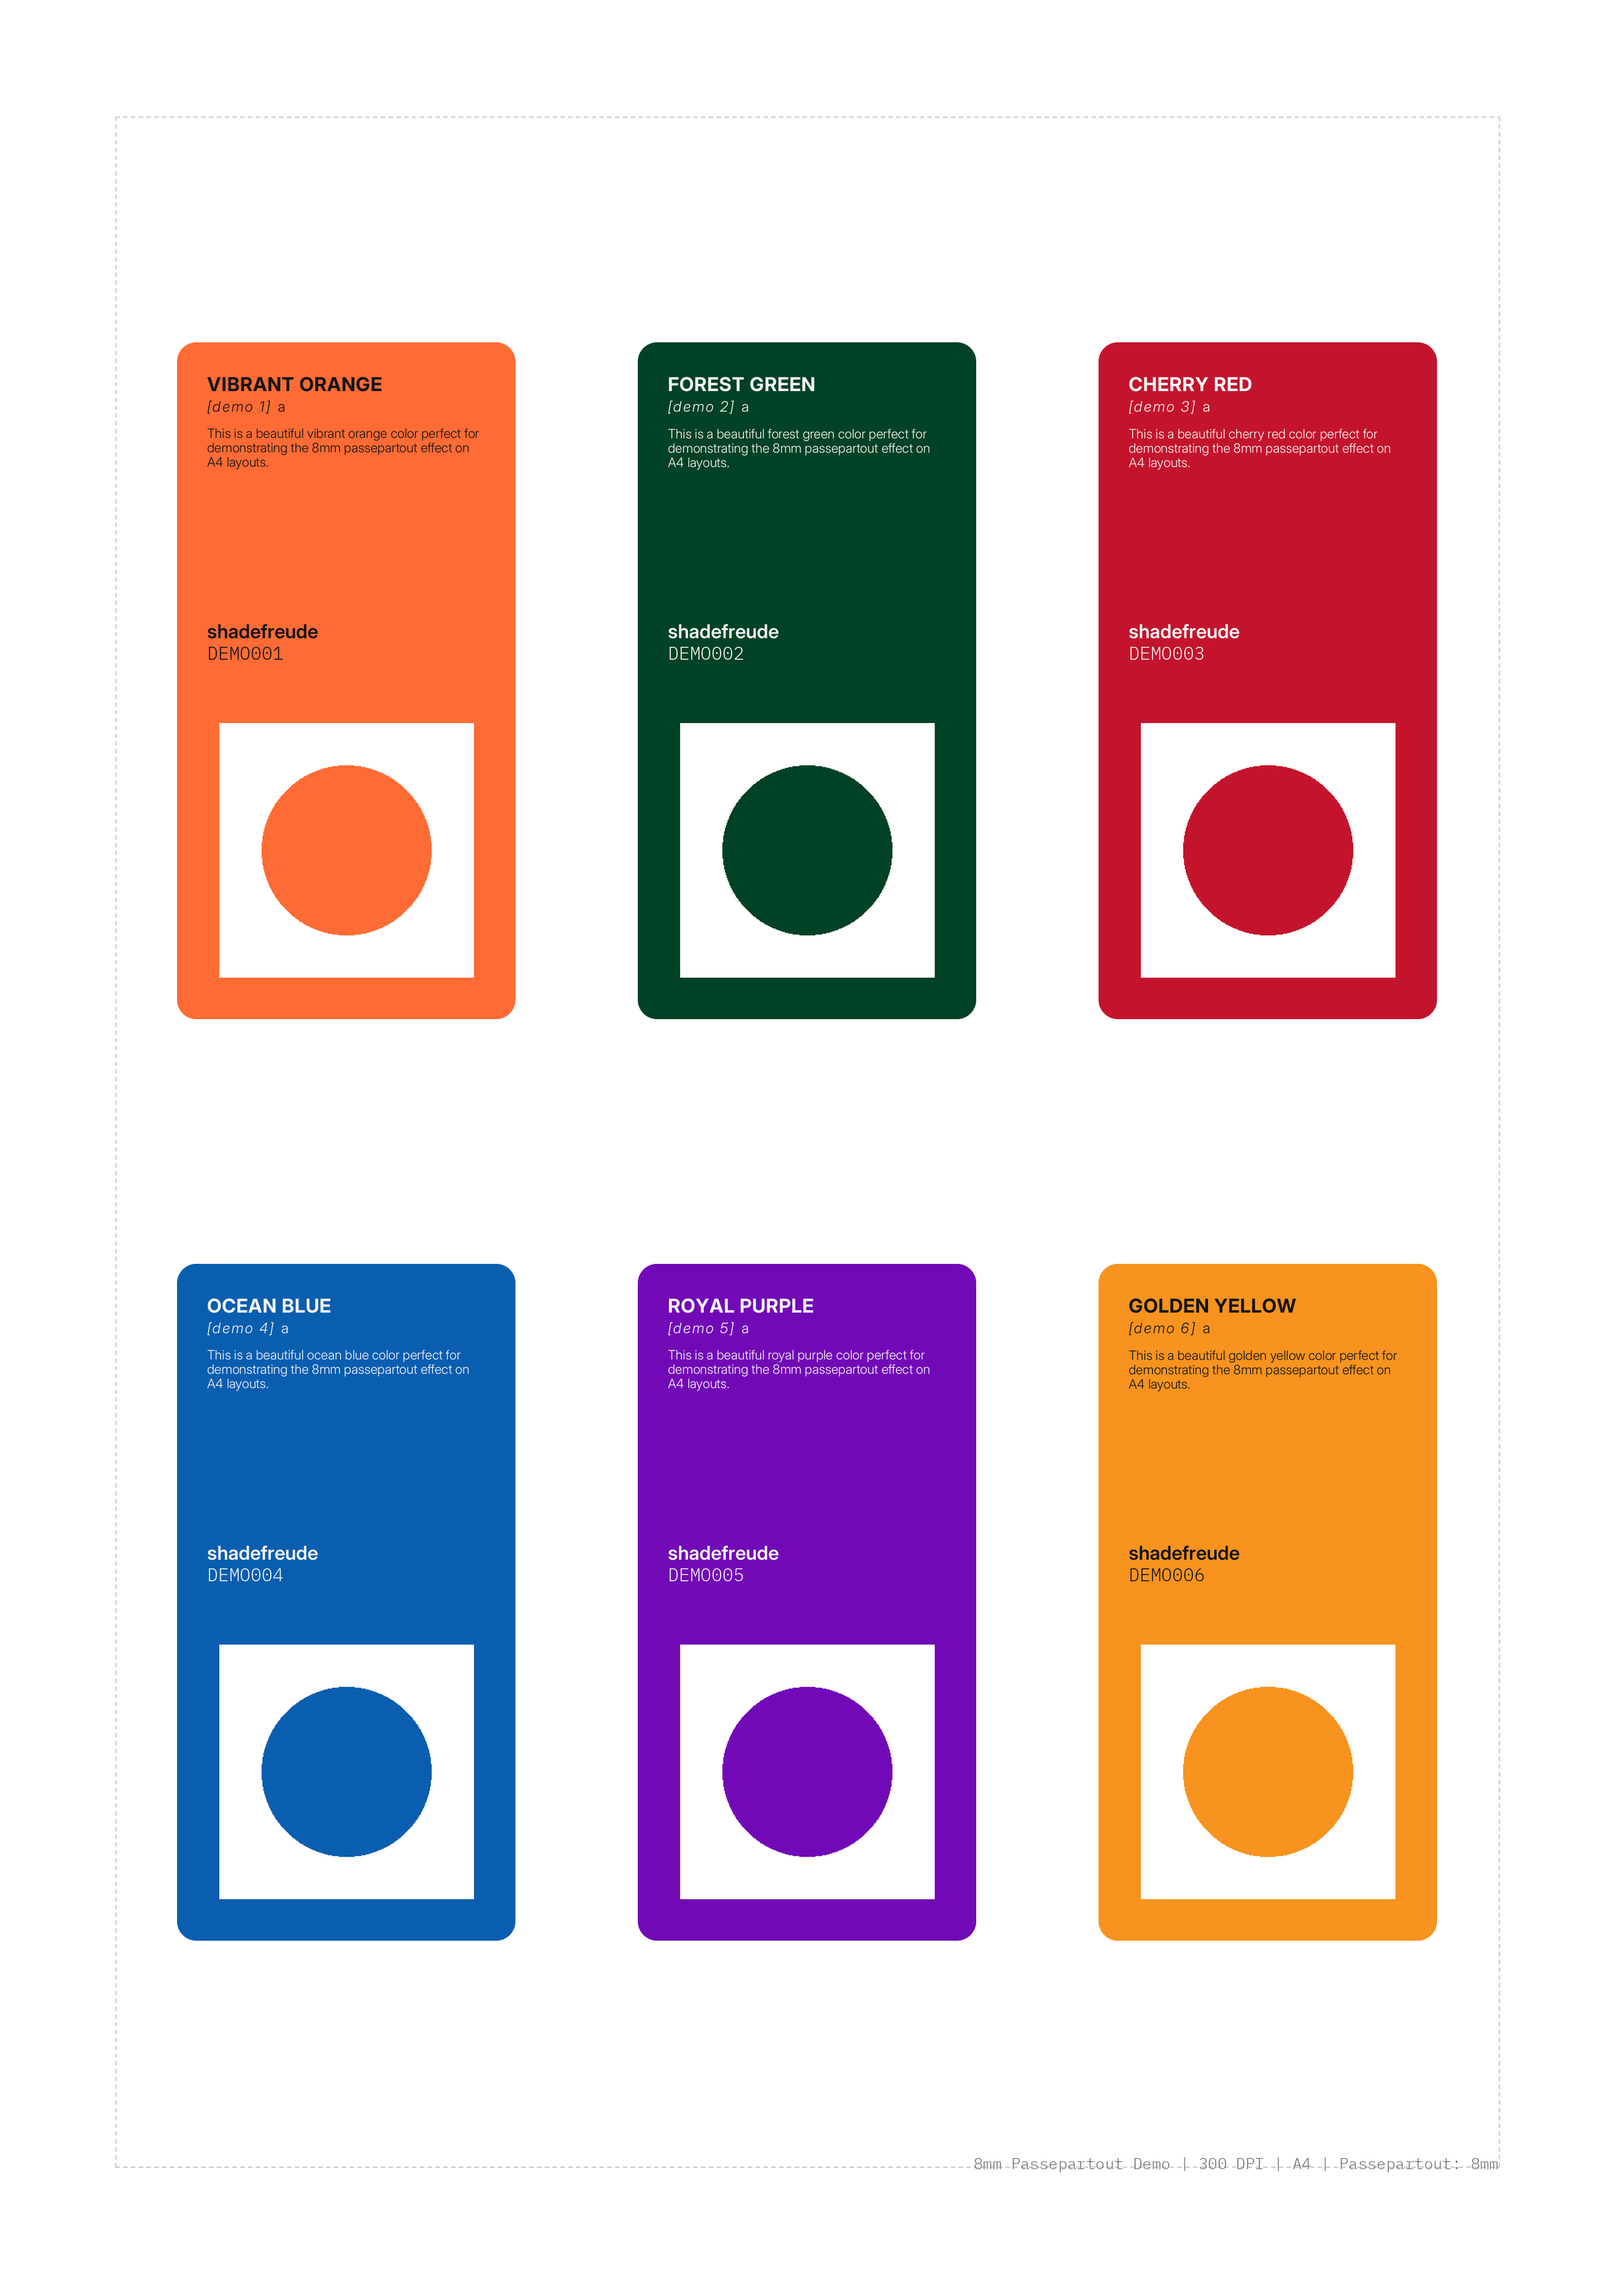
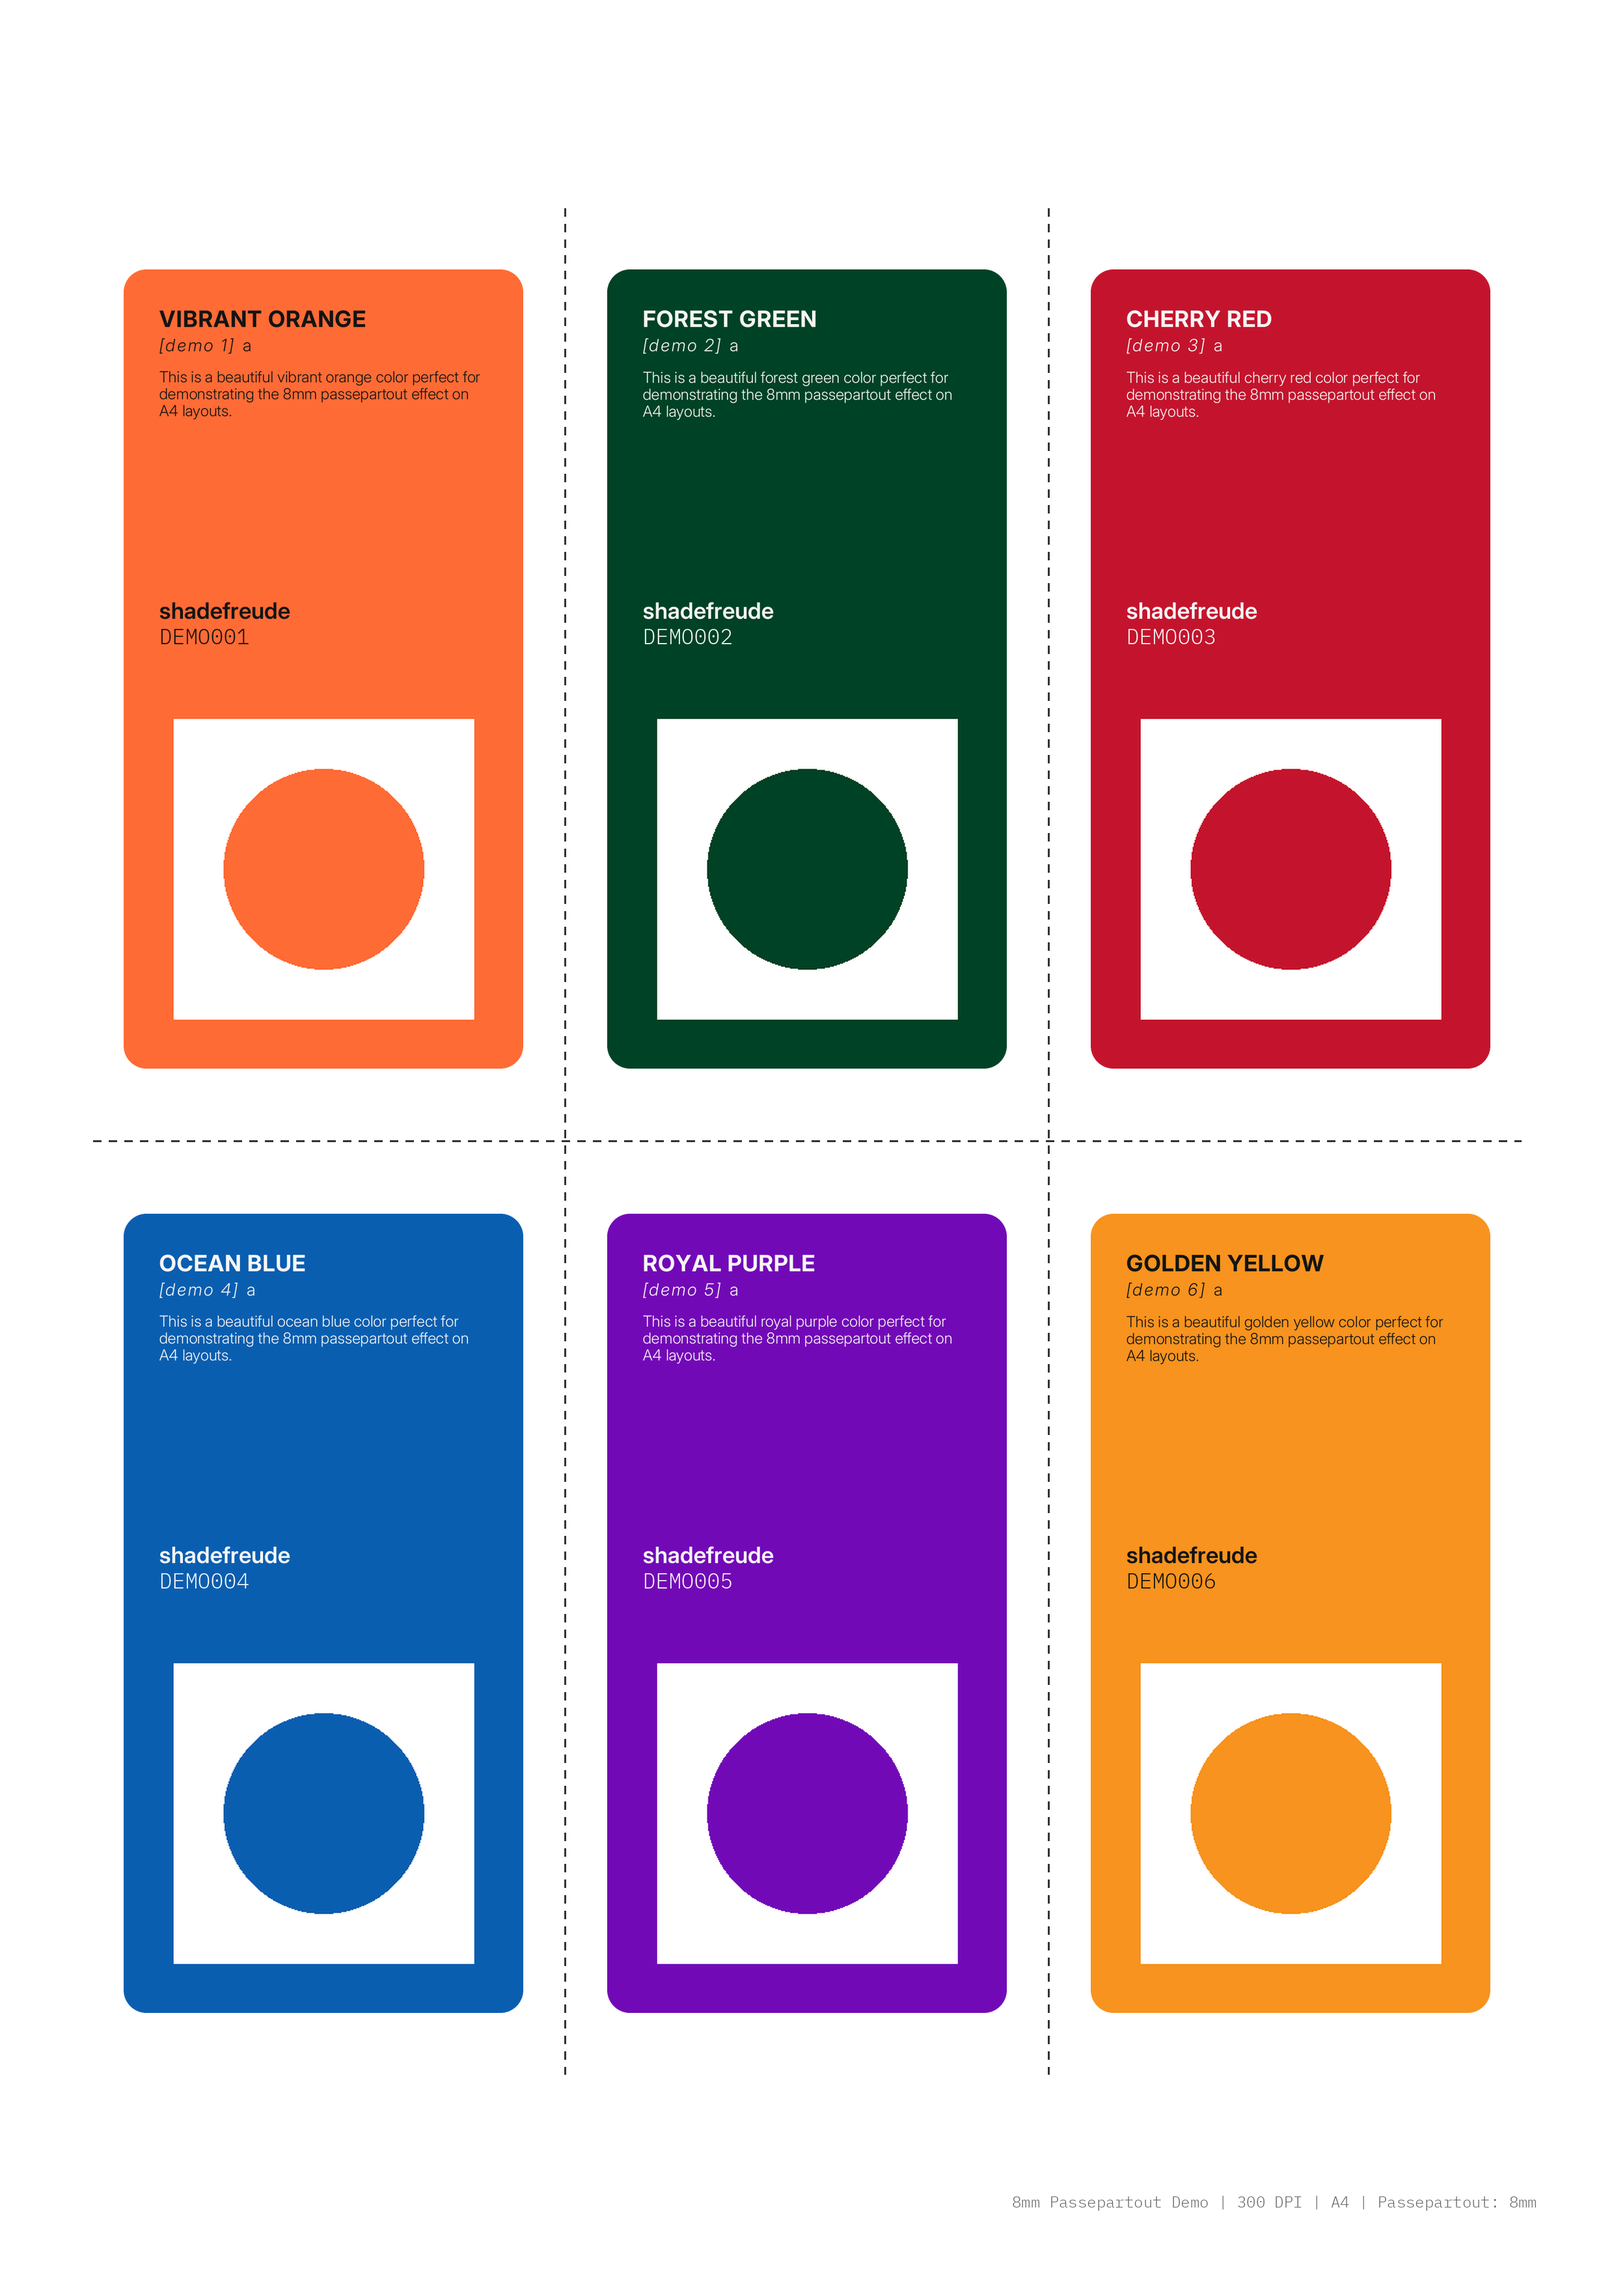
pass partoue, v3

diff --git a/api/utils/print_utils.py b/api/utils/print_utils.py
@@ -25,20 +25,20 @@ CARD_HEIGHT_MM = CARD_HEIGHT / MM_TO_PIXELS  # ~119.90mm (1416px at 300 DPI)
 # Layout specifications
 GRID_COLS = 3  # 3 cards wide
 GRID_ROWS = 2  # 2 cards tall
-A4_MARGINS_MM = 15          # Outer A4 margins
-CUTTING_ZONE_MM = 13.5      # Top/bottom cutting areas
+A4_MARGINS_MM = 10          # Reduced outer A4 margins for better space usage
+CUTTING_ZONE_MM = 8         # Reduced cutting areas for more card space
 
 # Convert to pixels
 A4_MARGINS_PX = int(A4_MARGINS_MM * MM_TO_PIXELS)
 CUTTING_ZONE_PX = int(CUTTING_ZONE_MM * MM_TO_PIXELS)
 
 # Cutting guide appearance
-CUTTING_LINE_COLOR = "#CCCCCC"
-CUTTING_LINE_WIDTH = 2  # pixels
-CUTTING_LINE_DASH_LENGTH = 6  # pixels
+CUTTING_LINE_COLOR = "#333333"  # Much darker gray for visibility
+CUTTING_LINE_WIDTH = 3  # pixels - thicker lines
+CUTTING_LINE_DASH_LENGTH = 12  # pixels - longer dashes
 
-# Card spacing (tight layout for maximum efficiency)
-CARD_SPACING_MM = 0  # No spacing between cards
+# Card spacing (small gap for easier cutting)
+CARD_SPACING_MM = 3  # 3mm spacing between cards for easier cutting
 CARD_SPACING_PX = int(CARD_SPACING_MM * MM_TO_PIXELS)
 
 def mm_to_px(mm: float) -> int:
@@ -139,17 +139,24 @@ class A4Layout:
     
     def _apply_passepartout_to_card(self, card_image: Image.Image) -> Image.Image:
         """
-        Apply passepartout (white border) to a card by shrinking it and adding white space.
+        Apply proportional passepartout (white border) maintaining 2:1 aspect ratio.
         
         Args:
             card_image: Original card image
             
         Returns:
-            Card image with passepartout applied
+            Card image with proportional passepartout applied
         """
-        # Calculate available space for the card content after passepartout border
-        available_width = CARD_WIDTH - (2 * self.passepartout_px)
-        available_height = CARD_HEIGHT - (2 * self.passepartout_px)
+        # Calculate proportional passepartout borders to maintain 2:1 ratio
+        # Card is 2:1 ratio (width:height), so passepartout should be proportional
+        
+        # For 2:1 ratio: if height border is X, width border should be X/2
+        passepartout_height = self.passepartout_px
+        passepartout_width = self.passepartout_px // 2  # Half of height passepartout
+        
+        # Calculate available space for card content after proportional borders
+        available_width = CARD_WIDTH - (2 * passepartout_width)
+        available_height = CARD_HEIGHT - (2 * passepartout_height)
         
         # Calculate scaling factor to fit card within available space
         scale_factor = min(available_width / CARD_WIDTH, available_height / CARD_HEIGHT)
@@ -162,56 +169,81 @@ class A4Layout:
         # Create white background canvas (same size as original card space)
         white_canvas = Image.new('RGB', (CARD_WIDTH, CARD_HEIGHT), 'white')
         
-        # Center the scaled card on the white canvas
+        # Center the scaled card on the white canvas with proportional borders
         paste_x = (CARD_WIDTH - new_width) // 2
         paste_y = (CARD_HEIGHT - new_height) // 2
         white_canvas.paste(scaled_card, (paste_x, paste_y))
         
-        debug(f"Passepartout applied: scale={scale_factor:.3f}, new_size={new_width}×{new_height}px", request_id=self.request_id)
+        debug(f"Proportional passepartout: {passepartout_width}px×{passepartout_height}px, scale={scale_factor:.3f}", request_id=self.request_id)
         return white_canvas
     
     def draw_cutting_guides(self) -> None:
-        """Draw cutting guide lines around the card layout area"""
+        """Draw cutting guide lines only between cards (no outer edges, no double lines)"""
         if not self.draw:
             raise RuntimeError("Canvas not created. Call create_canvas() first.")
         
-        # Calculate cutting zone boundaries
-        top_cutting_y = self.offset_y - CUTTING_ZONE_PX
-        bottom_cutting_y = self.offset_y + self.layout_height + CUTTING_ZONE_PX
-        left_cutting_x = self.offset_x - CUTTING_ZONE_PX
-        right_cutting_x = self.offset_x + self.layout_width + CUTTING_ZONE_PX
+        # Draw vertical cutting lines between columns (not at edges)
+        for grid_x in range(GRID_COLS - 1):  # Between columns only
+            # Get positions of adjacent cards
+            left_card_x, left_card_y = self.get_card_position(grid_x, 0)
+            right_card_x, right_card_y = self.get_card_position(grid_x + 1, 0)
+            
+            # Line position is halfway between the cards
+            line_x = left_card_x + CARD_WIDTH + (CARD_SPACING_PX // 2)
+            
+            # Draw vertical line from top of layout to bottom
+            top_y = self.offset_y
+            bottom_y = self.offset_y + self.layout_height
+            
+            self._draw_dashed_line((line_x, top_y), (line_x, bottom_y), CUTTING_LINE_COLOR, CUTTING_LINE_WIDTH)
         
-        # Ensure boundaries are within A4 canvas
-        top_cutting_y = max(A4_MARGINS_PX, top_cutting_y)
-        bottom_cutting_y = min(A4_HEIGHT_PX - A4_MARGINS_PX, bottom_cutting_y)
-        left_cutting_x = max(A4_MARGINS_PX, left_cutting_x)
-        right_cutting_x = min(A4_WIDTH_PX - A4_MARGINS_PX, right_cutting_x)
+        # Draw horizontal cutting lines between rows (not at edges)
+        for grid_y in range(GRID_ROWS - 1):  # Between rows only
+            # Get positions of adjacent cards
+            top_card_x, top_card_y = self.get_card_position(0, grid_y)
+            bottom_card_x, bottom_card_y = self.get_card_position(0, grid_y + 1)
+            
+            # Line position is halfway between the cards
+            line_y = top_card_y + CARD_HEIGHT + (CARD_SPACING_PX // 2)
+            
+            # Draw horizontal line from left of layout to right
+            left_x = self.offset_x
+            right_x = self.offset_x + self.layout_width
+            
+            self._draw_dashed_line((left_x, line_y), (right_x, line_y), CUTTING_LINE_COLOR, CUTTING_LINE_WIDTH)
         
-        # Draw horizontal cutting lines (top and bottom)
-        self._draw_dashed_line(
-            (left_cutting_x, top_cutting_y), 
-            (right_cutting_x, top_cutting_y), 
-            CUTTING_LINE_COLOR, CUTTING_LINE_WIDTH
-        )
-        self._draw_dashed_line(
-            (left_cutting_x, bottom_cutting_y), 
-            (right_cutting_x, bottom_cutting_y), 
-            CUTTING_LINE_COLOR, CUTTING_LINE_WIDTH
-        )
+        log(f"Added cutting guides between cards only (no outer edges, no double lines)", request_id=self.request_id)
+    
+    def _draw_cutting_rectangle(self, left: int, top: int, right: int, bottom: int, width: int = None) -> None:
+        """Draw a dashed rectangle for cutting guides"""
+        if width is None:
+            width = CUTTING_LINE_WIDTH
+            
+        # Draw four sides of rectangle
+        self._draw_dashed_line((left, top), (right, top), CUTTING_LINE_COLOR, width)      # Top
+        self._draw_dashed_line((right, top), (right, bottom), CUTTING_LINE_COLOR, width)  # Right  
+        self._draw_dashed_line((right, bottom), (left, bottom), CUTTING_LINE_COLOR, width) # Bottom
+        self._draw_dashed_line((left, bottom), (left, top), CUTTING_LINE_COLOR, width)    # Left
+    
+    def _draw_crop_marks(self, left: int, top: int, right: int, bottom: int) -> None:
+        """Draw corner crop marks for precision cutting"""
+        mark_length = 20  # Length of crop marks in pixels
         
-        # Draw vertical cutting lines (left and right)
-        self._draw_dashed_line(
-            (left_cutting_x, top_cutting_y), 
-            (left_cutting_x, bottom_cutting_y), 
-            CUTTING_LINE_COLOR, CUTTING_LINE_WIDTH
-        )
-        self._draw_dashed_line(
-            (right_cutting_x, top_cutting_y), 
-            (right_cutting_x, bottom_cutting_y), 
-            CUTTING_LINE_COLOR, CUTTING_LINE_WIDTH
-        )
+        # Top-left corner
+        self.draw.line([(left - mark_length, top), (left + mark_length, top)], fill=CUTTING_LINE_COLOR, width=2)
+        self.draw.line([(left, top - mark_length), (left, top + mark_length)], fill=CUTTING_LINE_COLOR, width=2)
         
-        log(f"Added cutting guides at margins: {px_to_mm(CUTTING_ZONE_PX):.1f}mm", request_id=self.request_id)
+        # Top-right corner  
+        self.draw.line([(right - mark_length, top), (right + mark_length, top)], fill=CUTTING_LINE_COLOR, width=2)
+        self.draw.line([(right, top - mark_length), (right, top + mark_length)], fill=CUTTING_LINE_COLOR, width=2)
+        
+        # Bottom-left corner
+        self.draw.line([(left - mark_length, bottom), (left + mark_length, bottom)], fill=CUTTING_LINE_COLOR, width=2)
+        self.draw.line([(left, bottom - mark_length), (left, bottom + mark_length)], fill=CUTTING_LINE_COLOR, width=2)
+        
+        # Bottom-right corner
+        self.draw.line([(right - mark_length, bottom), (right + mark_length, bottom)], fill=CUTTING_LINE_COLOR, width=2)
+        self.draw.line([(right, bottom - mark_length), (right, bottom + mark_length)], fill=CUTTING_LINE_COLOR, width=2)
     
     def _draw_dashed_line(self, start: Tuple[int, int], end: Tuple[int, int], 
                          color: str, width: int) -> None:
